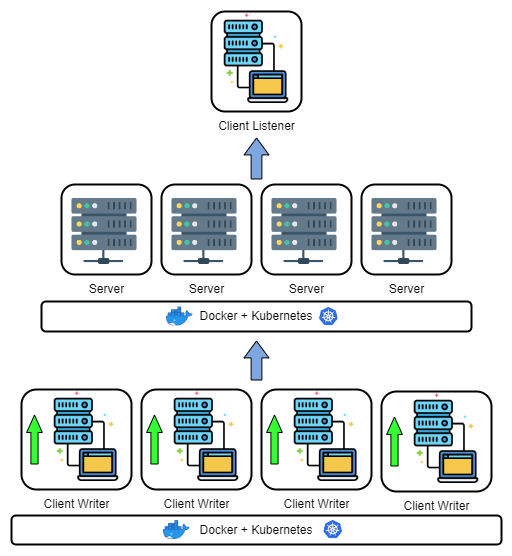
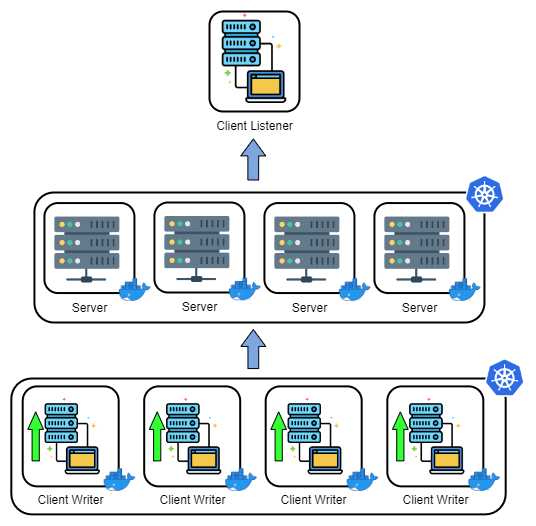
refact: update architecture diagram

diff --git a/README.md b/README.md
@@ -8,5 +8,5 @@
 
 | OPC Client-Server Diagram |
 |:--:|
-|![space-1.jpg](https://user-images.githubusercontent.com/100642061/230538520-f747738b-4957-4136-b8ee-0ef539871e80.png)|
+|![space-1.jpg](https://user-images.githubusercontent.com/100642061/230542834-6edc9795-ded5-4e31-8161-138feabf0979.png)|
 |I made this diagram using [Diagrams.net](https://app.diagrams.net/).|
